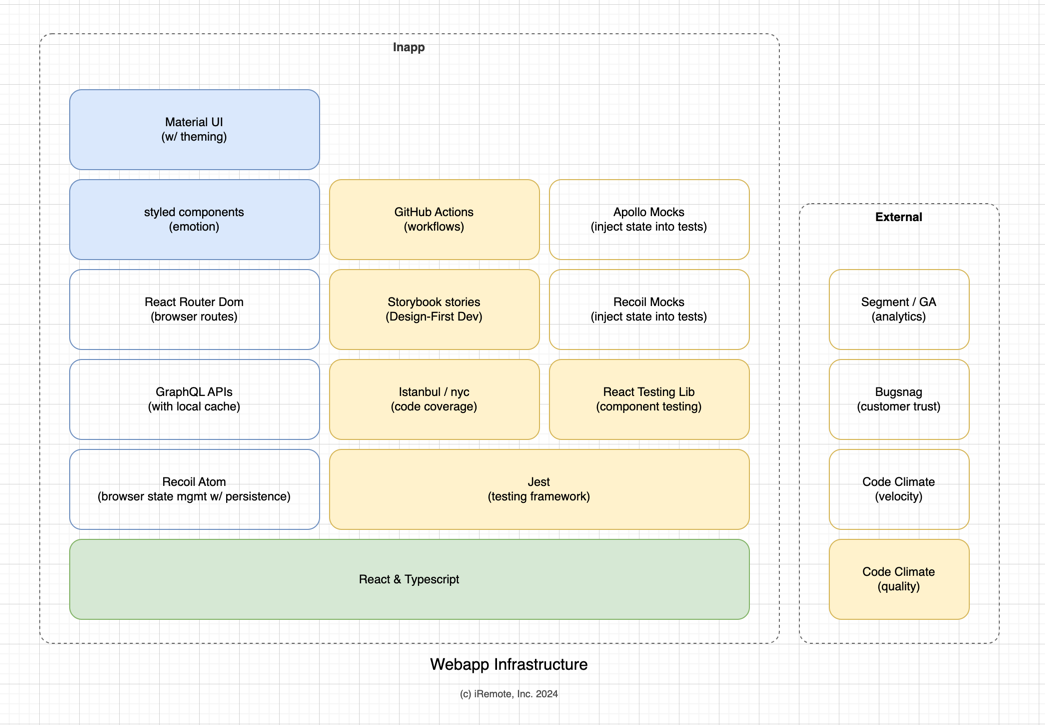
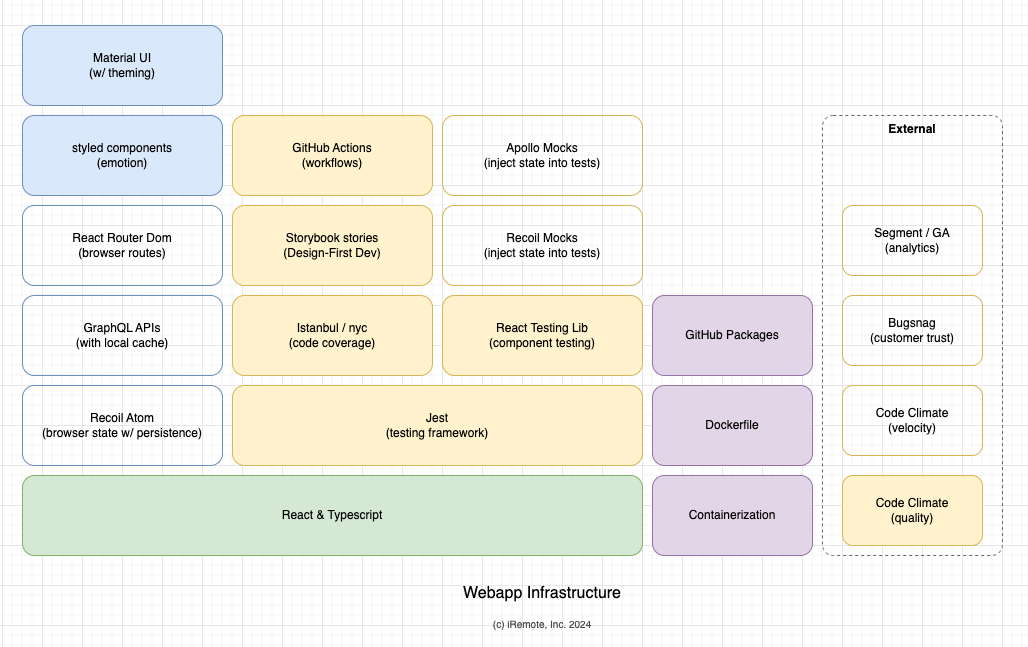
Merge pull request #9
* Adds docker infra.
* Updates GitHub actions to build container pkg.
* Updates code coverage tooling

diff --git a/README-prod.md b/README-prod.md
@@ -1,0 +1,26 @@
+# Production Ready Deployment
+
+We use Kubernetes or similar container orchestration tools for production deployment.
+The Following instructions will help you to deploy the app on your local machine with a similar setup.
+
+## Building Container Image (Docker)
+
+### CI/CD
+
+We use GitHub Actions for CI/CD. Refer to `.github/workflows` for the workflow.
+
+### Manual
+
+```bash
+yarn build
+```
+
+```bash
+docker build . -t iremote.ai/materials-app:latest
+```
+
+```bash
+docker run -p 3080:80 iremote.ai/materials-app:latest
+```
+
+The App will be available at [http://localhost:3080](http://localhost:3080).

diff --git a/README.md b/README.md
@@ -52,6 +52,10 @@ This will launch the app at [http://localhost:3000](http://localhost:3000).
 We use CRA (Create React App) supplied tooling (nyc, istanbul, etc.) for testing and coverage.
 `package.json` has the scripts to run tests and coverage.
 
+## Deployment
+
+Refer to [README-prod.md](./README-prod.md) for production deployment.
+
 ## Contributors & Authors
 
 Ramesh Doddi <ramesh@iremote.ai>
